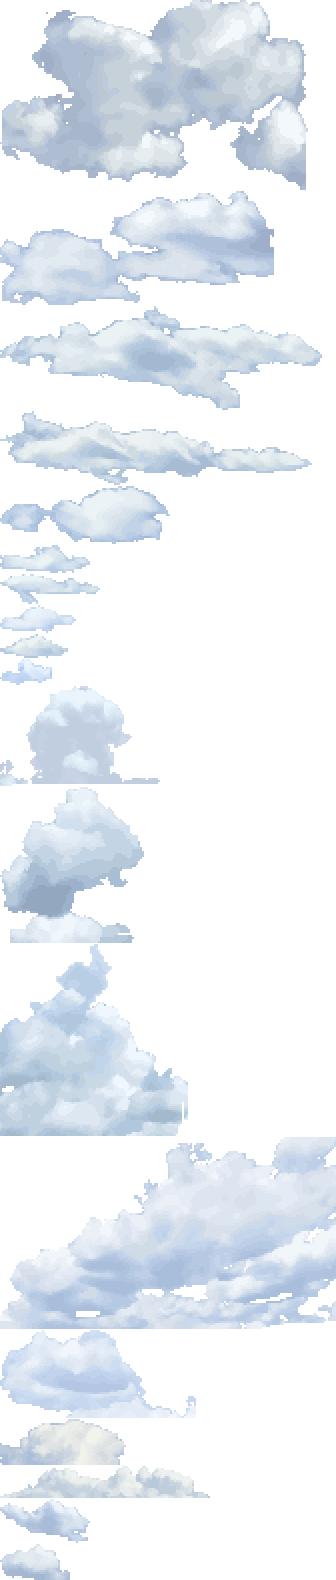
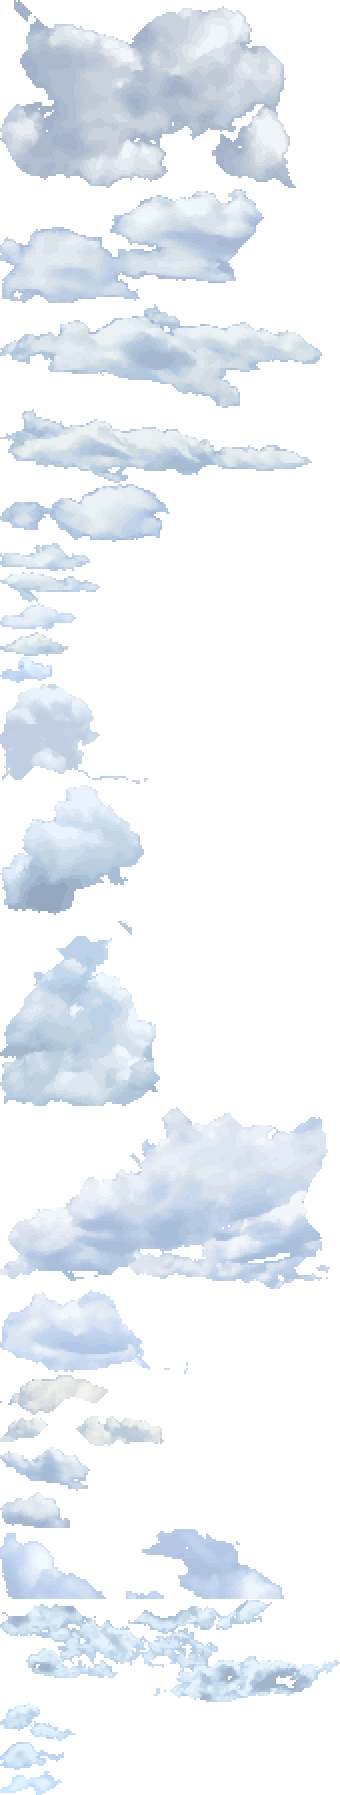
A cut edge follows the creases: where a cloud is cut by a clipped box edge or the photo's frame, the cut is moved onto the darkest seam through a band inside it (one pixel a row, stepping a column at most, costed by lightness and by how much darker a pixel is than its surroundings, so the seam finds

diff --git a/tools/cut_cloud.py b/tools/cut_cloud.py
@@ -12,6 +12,8 @@ translucent edge averages down into the cloud rather than snapping to a hard lin
   --pad N     pixels of margin kept around the cloud's bounding box (default 8)
   --list      no cut: print the separate clouds the key finds in the box, largest first, with
               the box fractions to pass back in, for filling the config's clouds list
+  --all       keep every cloud in the box (a cluster, or one cloud the key sees as two pieces)
+              instead of the single one with the most core inside it
   --clip      the box also cuts. Cumulus join at their bases, and without this the whole joined
               mass comes along; with it the cut runs straight along the box edge, so put that
               edge where the join is narrow or in the gray of the base
@@ -77,6 +79,43 @@ def components(mask, y0, y1, x0, x1):
     return out
 
 
+def seam_cut(alpha, ln, axis, pos, d, B):
+    """Move a straight cut at `pos` (a column if axis == 1, a row if 0; d the direction into the
+    cloud) onto the darkest seam through the band of width B inside it, and clear what lies
+    between the cut and the seam."""
+    a = alpha if axis == 1 else alpha.T
+    L = ln if axis == 1 else ln.T
+    H, W = a.shape
+    lo, hi = (pos, min(W, pos + B)) if d > 0 else (max(0, pos - B + 1), pos + 1)
+    band = L[:, lo:hi]; cover = a[:, lo:hi] > 0.3
+    if band.shape[1] < 3 or not cover.any(): return alpha
+    # cost: the lightness where there is cloud, and more so the crease (how much darker a pixel is
+    # than its surroundings, so a seam finds the folds between lobes even where the whole band
+    # is bright), a middle value over sky, and a slight lean toward the cut so an even field is
+    # cut near its edge rather than deep in
+    n = band.shape[1]
+    k = 25
+    pad = np.pad(band, k // 2, mode='edge')
+    c = np.cumsum(np.cumsum(pad, 0), 1); c = np.pad(c, ((1, 0), (1, 0)))
+    H2, W2 = band.shape
+    local = (c[k:k + H2, k:k + W2] - c[:H2, k:k + W2] - c[k:k + H2, :W2] + c[:H2, :W2]) / (k * k)
+    crease = (band - local) * 3
+    lean = (np.arange(n) if d > 0 else np.arange(n)[::-1]) / max(n - 1, 1) * 0.08
+    cost = np.where(cover, band * 0.6 + crease, 0.45) + lean[None, :]
+    cum = cost.copy()
+    for y in range(1, H):
+        prev = cum[y - 1]
+        best = np.minimum(np.minimum(np.pad(prev[:-1], (1, 0), constant_values=np.inf), prev), np.pad(prev[1:], (0, 1), constant_values=np.inf))
+        cum[y] = cost[y] + best
+    seam = np.empty(H, int); seam[-1] = int(np.argmin(cum[-1]))
+    for y in range(H - 2, -1, -1):
+        x = seam[y + 1]; x0 = max(0, x - 1); seam[y] = x0 + int(np.argmin(cum[y, x0:x + 2]))
+    cols = np.arange(n)[None, :]
+    outside = cols < seam[:, None] if d > 0 else cols > seam[:, None]
+    a = a.copy(); a[:, lo:hi] = np.where(outside, 0, a[:, lo:hi])
+    return a if axis == 1 else a.T
+
+
 def main():
     ap = argparse.ArgumentParser(description=__doc__.split('\n')[0])
     ap.add_argument('photo'); ap.add_argument('out')
@@ -86,6 +125,7 @@ def main():
     ap.add_argument('--pad', type=int, default=8)
     ap.add_argument('--clip', action='store_true', help='the box also cuts: for a cloud joined to its neighbors, which otherwise come with it')
     ap.add_argument('--list', action='store_true', help='list the separate clouds in the box with their boxes, and cut nothing')
+    ap.add_argument('--all', action='store_true', help='keep every cloud in the box, not just the one with the most core in it: for a cluster, or a cloud in two pieces')
     a = ap.parse_args()
     im = ImageOps.exif_transpose(Image.open(a.photo)).convert('RGB')
     W, H = im.size
@@ -106,8 +146,8 @@ def main():
     # whole frame is keyed, so a cloud that runs past the box edge keeps its far side
     inbox = np.zeros(alpha.shape, bool); inbox[y0:y1, x0:x1] = True
     if a.clip: alpha[~inbox] = 0
-    core = label_largest((alpha >= 0.6), prefer=inbox)
-    if core is None: sys.exit('no cloud found in the box')
+    core = ((alpha >= 0.6) & inbox) if a.all else label_largest((alpha >= 0.6), prefer=inbox)
+    if core is None or not core.any(): sys.exit('no cloud found in the box')
     # the soft edge belongs to the chosen cloud only where it touches that cloud's core
     try:
         from scipy import ndimage
@@ -135,10 +175,11 @@ def main():
     # premultiplied average in the pixelate step weighs it by its alpha
     px = np.where(a3 >= 0.25, (px - skycol * (1 - a3)) / np.maximum(a3, 0.25), px).clip(0, 255)
     # Where the cloud runs into a cut (a clipped box edge, or the photo's own frame) the edge is
-    # a straight line. Over a band inside it the cloud is trimmed from the cut inward, each row
-    # or column eaten back until the first pixel lit enough for that depth: the lit lobes reach
-    # nearest the cut, the shaded base recedes, so the cut follows the photo's structure instead
-    # of a ruler, and nothing inside the cloud is touched. A mask on the photo's pixels, nothing drawn.
+    # a straight line. Inside a band along it the cut is moved onto the darkest path through the
+    # cloud (a seam: one pixel per row, stepping at most one column per row, the path of least
+    # lightness), which runs along the shaded creases between the lobes, so the cut follows the
+    # photo's own structure and only ever shows a lobe's edge. Trimming by a lightness threshold
+    # instead left a ruler line wherever a lobe was uniformly bright up to the cut. Nothing drawn.
     cy, cx = np.nonzero(core)
     cw, ch = cx.max() - cx.min() + 1, cy.max() - cy.min() + 1
     lum = px.mean(2); lo_l, hi_l = np.percentile(lum[core], [5, 95])
@@ -146,16 +187,12 @@ def main():
     edges = []   # (axis, position, direction into the cloud)
     for pos, axis, d, size in ((x0 if a.clip else 0, 1, 1, cw), ((x1 if a.clip else px.shape[1]) - 1, 1, -1, cw), (y0 if a.clip else 0, 0, 1, ch), ((y1 if a.clip else px.shape[0]) - 1, 0, -1, ch)):
         coord = cx if axis == 1 else cy
-        if np.abs(coord - pos).min() <= 2: edges.append((axis, pos, d, max(60, int(size * 0.12))))
+        if np.abs(coord - pos).min() <= 2: edges.append((axis, pos, d, max(100, int(size * 0.22))))
     for axis, pos, d, B in edges:
         idx = np.arange(px.shape[1] if axis == 1 else px.shape[0])
         dist = ((idx - pos) * d).clip(0, B) / B          # 0 at the cut, 1 a band's width in
         dist = dist[None, :] if axis == 1 else dist[:, None]
-        lit = ln >= (1 - dist)                           # lit enough to stand at this depth
-        if d < 0: lit = np.flip(lit, axis=1 - axis)     # accumulate from the cut inward
-        keep = np.maximum.accumulate(lit, axis=1 - axis)
-        if d < 0: keep = np.flip(keep, axis=1 - axis)
-        alpha = alpha * keep
+        alpha = seam_cut(alpha, ln, axis, pos, d, B)
     ys, xs = np.nonzero(alpha > 0)
     by0, by1 = max(ys.min() - a.pad, 0), min(ys.max() + a.pad + 1, alpha.shape[0])
     bx0, bx1 = max(xs.min() - a.pad, 0), min(xs.max() + a.pad + 1, alpha.shape[1])

diff --git a/tools/build_clouds.py b/tools/build_clouds.py
@@ -4,7 +4,7 @@
 Each entry of "clouds" in art/NAME.json names a photo under art/ and the cloud in it:
   {"photo": "clouds/cumulus_01.jpg", "box": [fx0, fy0, fx1, fy1], "clip": true, "scale": 0.4, "far": false}
 box picks the cloud (fractions of the frame), clip also cuts along the box for a cloud joined to
-its neighbors (tools/cut_cloud.py), scale is sprite pixels per photo pixel, far marks a small
+its neighbors, all keeps every cloud in the box (tools/cut_cloud.py), scale is sprite pixels per photo pixel, far marks a small
 cloud for the rows near the cloud horizon. Each cut-out goes through tools/pixelate.py as a
 cloud. Writes assets/clouds.png (the sprites stacked top to bottom) and assets/clouds.json
 (their rectangles), and the half-size copies in assets/small/. No drawing: every sprite pixel is
@@ -43,6 +43,7 @@ def main():
         cut, out = os.path.join(tmp, f'cut{i}.png'), os.path.join(tmp, f'sprite{i}.png')
         cmd = [sys.executable, '-I', os.path.join(ROOT, 'tools/cut_cloud.py'), os.path.join(ROOT, 'art', e['photo']), cut, '--box', ','.join(str(v) for v in e['box'])]
         if e.get('clip'): cmd.append('--clip')
+        if e.get('all'): cmd.append('--all')
         if 'sky' in e: cmd += ['--sky', str(e['sky'])]
         if 'cloud' in e: cmd += ['--cloud', str(e['cloud'])]
         if subprocess.run(cmd).returncode:
